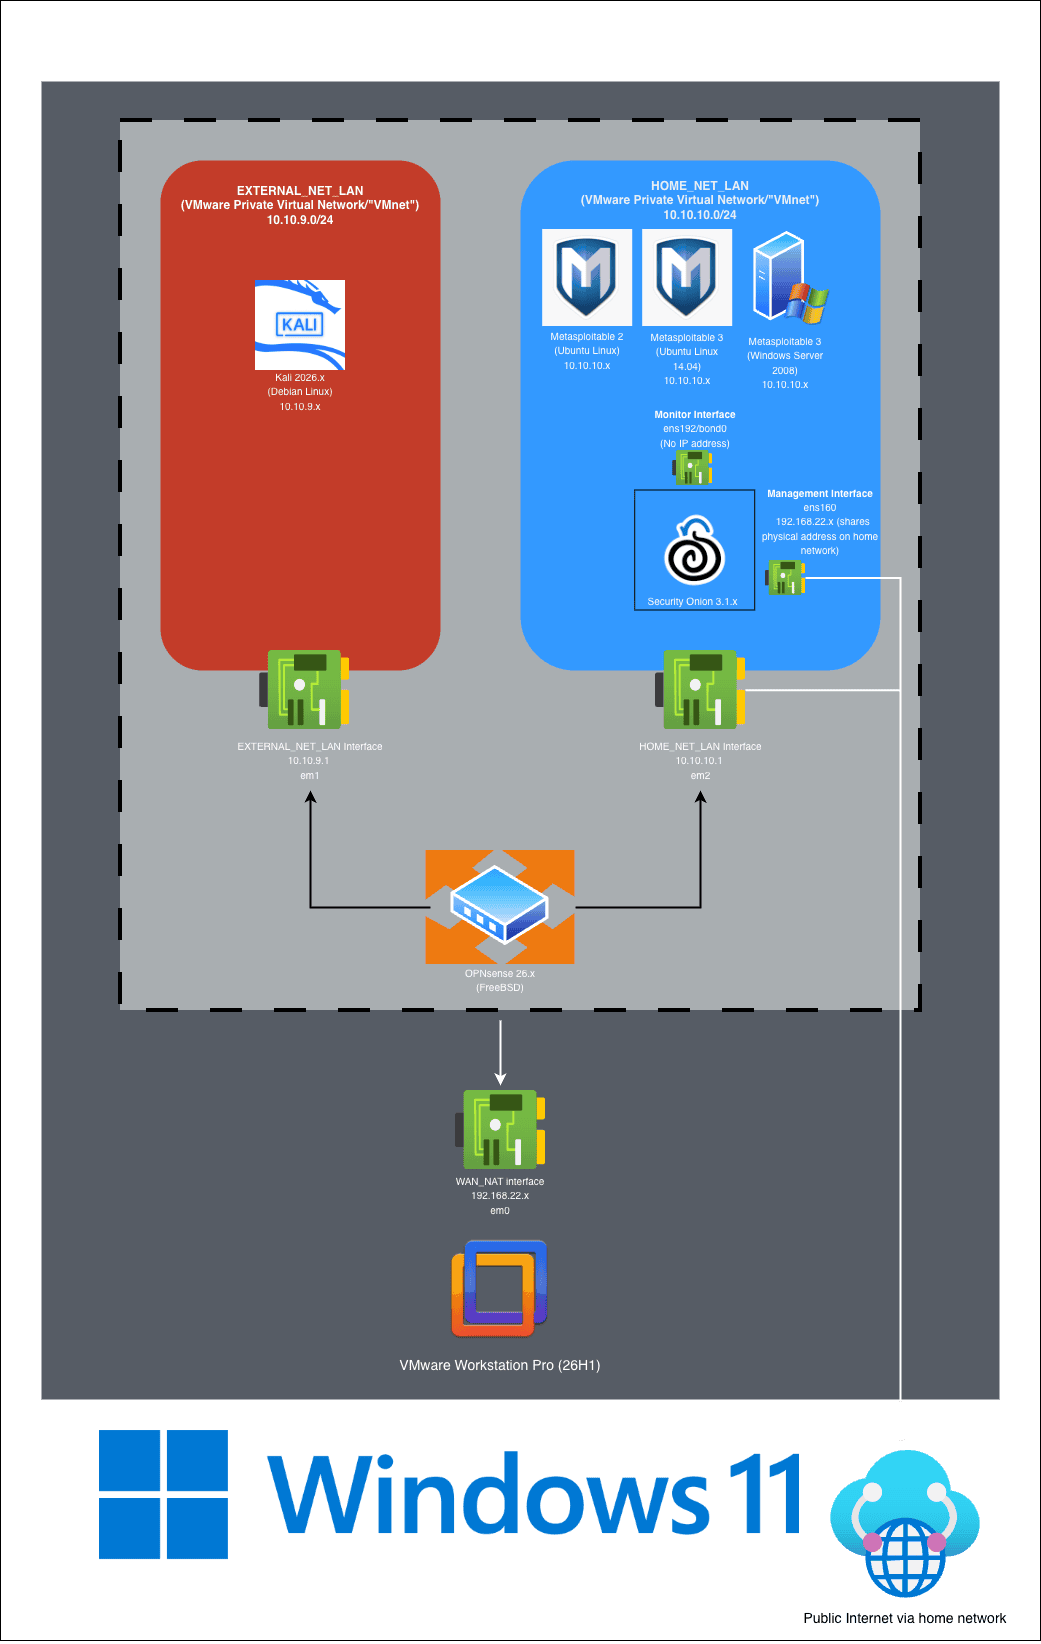
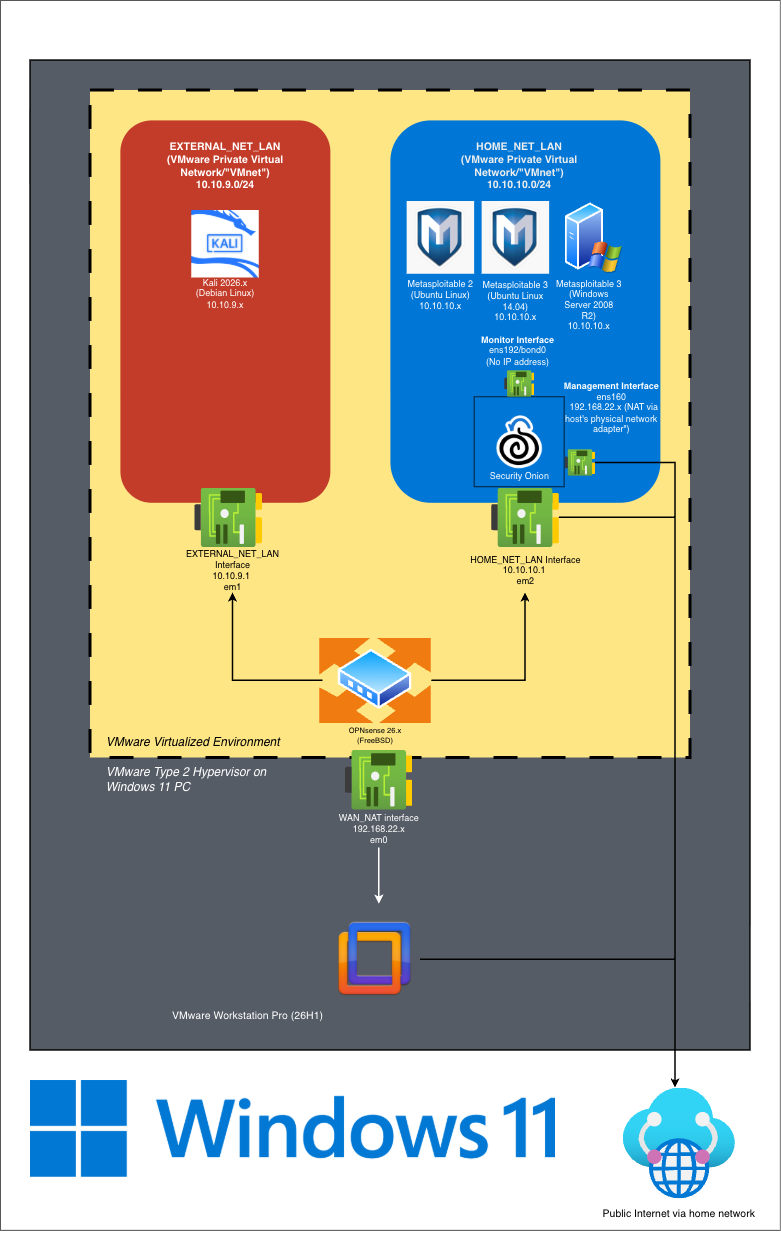
Updated network diagram, fixed typo

diff --git a/_security-onion-cyber-range-2026/so-range-01-intro-to-security-onion.md b/_security-onion-cyber-range-2026/so-range-01-intro-to-security-onion.md
@@ -43,12 +43,12 @@ If you prefer to use SSH keys for authentication, you can add your SSH key pair 
 
 1. `$ ssh-copy-id -i ~/.ssh/<public-key-name>.pub <username>@<management-network-ip-address>`
 2. Enter your password.
-3. Once your SSH public key has been added to the VM, you can log in with ssh -i ~/.ssh/<public-key-name> <username>@<management-network-ip-address>`
+3. Once your SSH public key has been added to the VM, you can log in with `ssh -i ~/.ssh/<public-key-name> <username>@<management-network-ip-address>`
 
 ##### SSH Key Authentication: Windows 11
 
 To copy your SSH public key from a Windows computer to your Security Onion VM, use this equivalent version of `ssh-copy-id` for Windows:  
-1. type $env:USERPROFILE\.ssh\<public-key-name>.pub | ssh <username>@<management-network-ip-address> "mkdir -p ~/.ssh && cat >> ~/.ssh/authorized_keys"
+1. type `$env:USERPROFILE\.ssh\<public-key-name>.pub | ssh <username>@<management-network-ip-address> "mkdir -p ~/.ssh && cat >> ~/.ssh/authorized_keys"`
 2. Enter your password.
 3. Once your SSH public key has been added to the VM, you can log in with `ssh -i $env:USERPROFILE\.ssh\<public-key-name> <username>@<management-network-ip-address>`.
 
@@ -123,7 +123,7 @@ First, you need to complete a few more configuration tasks.
 
 ## Security Onion Configuration: Set Home Networks
 
-As described in [Create VMware Private Virtual Networks for the Security Onion Environment](({% link _security-onion-cyber-range-2026/so-range-01-intro-to-security-onion.md %})), you designed this environment with a simulated local-area network (LAN) called HOME_NET_LAN, with an IP address space of 10.10.10.0/24. Now you need to specify this network as the HOME_NET that Suricata and Zeek are monitoring and defending. You used to declare this network as part of the initial configuration process for Security Onion, but now you can do it through the Security Onion Console.
+As described in [Create VMware Private Virtual Networks for the Security Onion Environment]({% link _security-onion-cyber-range-2026/so-range-01-intro-to-security-onion.md %}), you designed this environment with a simulated local-area network (LAN) called HOME_NET_LAN, with an IP address space of 10.10.10.0/24. Now you need to specify this network as the HOME_NET that Suricata and Zeek are monitoring and defending. You used to declare this network as part of the initial configuration process for Security Onion, but now you can do it through the Security Onion Console.
 
 1. In the Security Onion Console, click the **Administration** link in the left sidebar, then click **Configuration**. Under Analyst Quick Links > Suricata, click Suricata Home Networks.
    ![](/assets/images/security-onion-cyber-range-2026/so-range-01/so-range-01-011.png)
@@ -216,7 +216,7 @@ Security Onion is actively developed and maintained and makes updates available 
 
 ## Clear Security Onion Event Data
 
-Since you ran test data, you may want to reset or clear the event data in Security Onion for when you start simulating your own attacks on the netowrk. You can reset the logs and logging configurations of your Security Onion instance by running these two commands:
+Since you ran test data, you may want to reset or clear the event data in Security Onion for when you start simulating your own attacks on the network. You can reset the logs and logging configurations of your Security Onion instance by running these two commands:
 
 ```
 sudo so-nsm-clear -h
